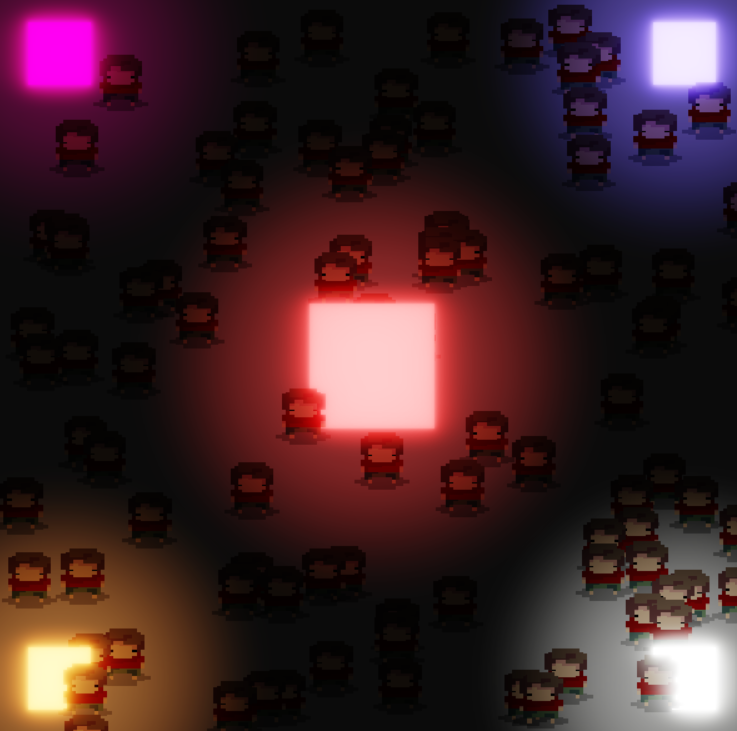
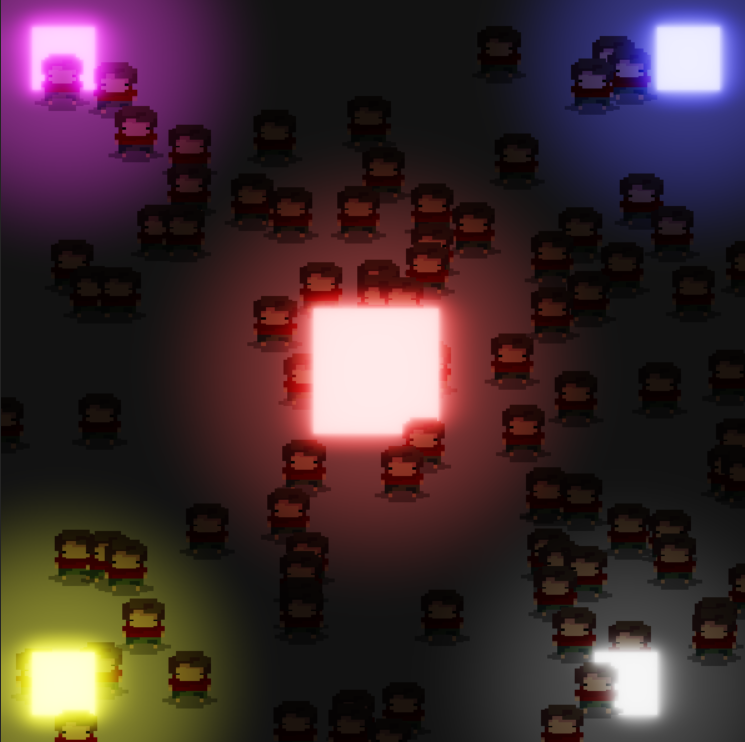
some bloom fixes, universal color palet

diff --git a/src/aurora/urp/draw.ts b/src/aurora/urp/draw.ts
@@ -13,15 +13,15 @@ interface BaseDraw {
   tint?: RGBA;
 }
 interface DrawRect extends BaseDraw {
-  emissive?: boolean;
+  emissive?: number;
 }
 interface DrawCircle extends BaseDraw {
-  emissive?: boolean;
+  emissive?: number;
 }
 interface DrawSprite extends BaseDraw {
   crop: Position2D & Size2D;
   textureToUse: string;
-  emissive?: boolean;
+  emissive?: number;
 }
 interface DrawText {
   position: Position2D;
@@ -29,7 +29,7 @@ interface DrawText {
   font: string;
   fontSize: number;
   fontColor?: RGBA;
-  emissive?: boolean;
+  emissive?: number;
 }
 interface DrawPointLight extends BaseDraw {
   intensity: number;
@@ -46,7 +46,29 @@ export interface BatchAccumulator {
   type: GetBatch["type"];
 }
 export default class Draw {
-  public static rect({ position, size, tint, emissive = false }: DrawRect) {
+  public static hdrBloomTone(
+    color: [number, number, number],
+    emissive: number
+  ): [number, number, number] {
+    const [r, g, b] = color;
+    const rn = r / 255;
+    const gn = g / 255;
+    const bn = b / 255;
+
+    const er = rn * emissive;
+    const eg = gn * emissive;
+    const eb = bn * emissive;
+
+    const alpha = 1 / Math.pow(emissive, 3);
+    const bleed = emissive * alpha;
+
+    const rOut = (er + (1 - rn) * bleed) * 255;
+    const gOut = (eg + (1 - gn) * bleed) * 255;
+    const bOut = (eb + (1 - bn) * bleed) * 255;
+
+    return [rOut, gOut, bOut];
+  }
+  public static rect({ position, size, tint, emissive = 1 }: DrawRect) {
     const pipeline = getDrawPipeline();
     const color: RGBA = tint ? tint : [255, 255, 255, 255];
     const batch = pipeline.getBatch("shape", color[3]);
@@ -67,14 +89,14 @@ export default class Draw {
     batch.addData[batch.count * addStride + 3] = color[1];
     batch.addData[batch.count * addStride + 4] = color[2];
     batch.addData[batch.count * addStride + 5] = color[3];
-    batch.addData[batch.count * addStride + 6] = emissive ? 1 : 0;
+    batch.addData[batch.count * addStride + 6] = emissive;
 
     batch.count++;
-    if (emissive) BloomPipeline.bloomInFrame = true;
+    if (emissive !== 0) BloomPipeline.bloomInFrame = true;
     AuroraDebugInfo.accumulate("drawnQuads", 1);
   }
 
-  public static circle({ position, size, tint, emissive }: DrawCircle) {
+  public static circle({ position, size, tint, emissive = 1 }: DrawCircle) {
     const pipeline = getDrawPipeline();
 
     const color: RGBA = tint ? tint : [255, 255, 255, 255];
@@ -96,7 +118,7 @@ export default class Draw {
     batch.addData[batch.count * addStride + 3] = color[1];
     batch.addData[batch.count * addStride + 4] = color[2];
     batch.addData[batch.count * addStride + 5] = color[3];
-    batch.addData[batch.count * addStride + 6] = emissive ? 1 : 0;
+    batch.addData[batch.count * addStride + 6] = emissive;
     batch.count++;
     AuroraDebugInfo.accumulate("drawnQuads", 1);
   }
@@ -106,7 +128,7 @@ export default class Draw {
     tint,
     crop,
     textureToUse,
-    emissive,
+    emissive = 1,
   }: DrawSprite) {
     const pipeline = getDrawPipeline();
 
@@ -130,7 +152,7 @@ export default class Draw {
     batch.addData[batch.count * addStride + 3] = color[1];
     batch.addData[batch.count * addStride + 4] = color[2];
     batch.addData[batch.count * addStride + 5] = color[3];
-    batch.addData[batch.count * addStride + 6] = emissive ? 1 : 0;
+    batch.addData[batch.count * addStride + 6] = emissive;
 
     batch.count++;
     AuroraDebugInfo.accumulate("drawnQuads", 1);
@@ -141,7 +163,7 @@ export default class Draw {
     fontColor,
     fontSize,
     text,
-    emissive,
+    emissive = 1,
   }: DrawText) {
     const pipeline = getDrawPipeline();
 
@@ -208,7 +230,7 @@ export default class Draw {
       batch.addData[batch.count * addStride + 3] = color[1];
       batch.addData[batch.count * addStride + 4] = color[2];
       batch.addData[batch.count * addStride + 5] = color[3];
-      batch.addData[batch.count * addStride + 6] = emissive ? 1 : 0;
+      batch.addData[batch.count * addStride + 6] = 1;
 
       batch.count++;
       AuroraDebugInfo.accumulate("drawnQuads", 1);

diff --git a/src/main.ts b/src/main.ts
@@ -18,13 +18,14 @@ interface t {
   intence: number;
   pos: [number, number];
   size: [number, number];
+  emis: number;
 }
-function makeLight({ intence, lightcolor, pos, size }: t) {
+function makeLight({ intence, lightcolor, pos, size, emis }: t) {
   Draw.rect({
     position: { x: pos[0], y: pos[1] },
     size: { height: size[0], width: size[1] },
     tint: [lightcolor[0], lightcolor[1], lightcolor[2], 255],
-    emissive: true,
+    emissive: emis,
   });
   Draw.pointLight({
     position: { x: pos[0], y: pos[1] },
@@ -45,7 +46,8 @@ async function create() {
     ],
     fonts: [yaFont],
   });
-  Batcher.setColorCorrection([25, 25, 25]);
+  const l = 50;
+  Batcher.setColorCorrection([l, l, l]);
 }
 const arr = Array(100)
   .fill(0)
@@ -60,7 +62,7 @@ function start(timestamp: number) {
   // Draw.rect({
   //   position: { x: 375, y: 275 },
   //   size: { height: h, width: w },
-  //   tint: [0, 255, 0, 255 / 2],
+  //   tint: [255, 255, 0, 255],
   // });
   // Draw.rect({
   //   position: { x: 425, y: 325 },
@@ -77,59 +79,61 @@ function start(timestamp: number) {
     });
   });
   makeLight({
-    intence: 100,
-    lightcolor: [255, 50, 50],
+    intence: 255,
+    lightcolor: [255, 70, 70],
     pos: [300, 300],
     size: [100, 100],
-  });
-  makeLight({
-    intence: 100,
-    lightcolor: [255, 0, 150],
-    pos: [50, 50],
-    size: [50, 50],
+    emis: 5,
   });
   makeLight({
     intence: 255,
-    lightcolor: [255, 255, 250],
+    lightcolor: [255, 50, 255],
+    pos: [50, 50],
+    size: [50, 50],
+    emis: 5,
+  });
+  makeLight({
+    intence: 255,
+    lightcolor: [255, 255, 255],
     pos: [500, 550],
     size: [50, 50],
+    emis: 4,
   });
   makeLight({
-    intence: 200,
-    lightcolor: [255, 125, 50],
+    intence: 255,
+    lightcolor: [255, 255, 50],
     pos: [50, 550],
     size: [50, 50],
+    emis: 5,
   });
   makeLight({
-    intence: 200,
-    lightcolor: [100, 80, 250],
+    intence: 255,
+    lightcolor: [70, 70, 255],
     pos: [550, 50],
     size: [50, 50],
+    emis: 6,
   });
   // const lightColor = 255;
   // Draw.rect({
   //   position: { x: x - 50, y: 250 },
   //   size: { height: 100, width: 100 },
   //   tint: [lightColor, 100, 0, 255],
-  //   emissive: true,
   // });
   // Draw.rect({
   //   position: { x: x, y: 250 + 150 },
   //   size: { height: 100, width: 100 },
   //   tint: [lightColor, 100, 0, 255],
-  //   emissive: true,
   // });
   // Draw.rect({
   //   position: { x: x + 50, y: 250 - 150 },
   //   size: { height: 100, width: 100 },
   //   tint: [lightColor, 100, 0, 255],
-  //   emissive: true,
   // });
   // Draw.circle({
   //   position: { x: 425, y: 225 },
   //   size: { height: 50, width: 50 },
-  //   tint: [255, 0, 0, 255],
-  //   // emissive: true,
+  //   tint: [255, 70, 70, 255],
+  //   emissive: 5,
   // });
   // Draw.pointLight({
   //   position: { x: x, y: 250 },
@@ -150,7 +154,7 @@ function start(timestamp: number) {
   //   intensity: 255,
   // });
   // Draw.rect({
-  //   position: { x: 400, y: 300 },
+  //   position: { x: 480, y: 270 },
   //   size: { height: h, width: w },
   //   tint: [0, 0, 255, 255 / 2],
   // });
@@ -168,7 +172,6 @@ function start(timestamp: number) {
   //   fontSize: 62,
   //   text: "Scalable big text!",
   //   fontColor: [255, 255, 0, 255],
-  //   emissive: true,
   // });
   // Draw.text({
   //   position: { x: 150, y: 480 },

diff --git a/src/aurora/urp/pipelines/bloomPipe.ts b/src/aurora/urp/pipelines/bloomPipe.ts
@@ -1,4 +1,4 @@
-import { CreateBindGroup, PipelineBind, Position2D } from "../../aurora";
+import { CreateBindGroup, PipelineBind, Position2D, RGB } from "../../aurora";
 import Aurora from "../../core";
 import Batcher from "../batcher/batcher";
 import AuroraDebugInfo from "../debugger/debugInfo";
@@ -25,7 +25,7 @@ type PassOrderList = [
   MipMapLevelToUse
 ];
 enum BloomParamsEnum {
-  toneMapping = 0, // 0 - rainhard, 1-ACES
+  toneMapping = 0, // 0 - rainhard, 1-ACES, 2- Filmic
   threshold = 1,
   thresholdSoftness = 2,
   bloomIntense = 3,
@@ -49,6 +49,8 @@ export default class BloomPipeline {
   private static currentMipLevel = 0;
   public static bloomInFrame: boolean = false;
   public static bloomParams = new Float32Array([1, 1, 0.1, 0.7]); // see enum
+  private static baseThreshold = 1;
+  private static thresholdBoostFactor = 1.4;
   private static bindListOrder: PassOrderList[] = [
     ["x", "bloomThreshold", "bloomXPass", 0],
     ["y", "bloomXPass", "bloomYPass", 0],
@@ -196,6 +198,7 @@ export default class BloomPipeline {
       },
     });
     const bloomLayout = Batcher.getBloomParamUniformLayout;
+
     const treshLayout = Aurora.createPipelineLayout([
       this.bloomThresholdBind[1],
       bloomLayout,
@@ -254,11 +257,17 @@ export default class BloomPipeline {
   }
 
   public static usePipeline(): void {
+    const bloomParamBuffer = Batcher.getBloomParamBuffer;
+    const globalIllumination = this.normalizeColorToLuminance(
+      Batcher.getColorCorrection
+    );
+    const newThreshold =
+      this.baseThreshold + globalIllumination * this.thresholdBoostFactor;
+    // this.setBloomParam("threshold", newThreshold);
+    Aurora.device.queue.writeBuffer(bloomParamBuffer, 0, this.bloomParams, 0);
     if (!this.bloomInFrame) return;
     this.currentMipLevel = 0;
     this.thresholdPass();
-    const bloomParamBuffer = Batcher.getBloomParamBuffer;
-    Aurora.device.queue.writeBuffer(bloomParamBuffer, 0, this.bloomParams, 0);
     this.bindListOrder.forEach((instruction, index) => {
       const groupSize = this.getGroupSize(instruction);
       const passType = instruction[0];
@@ -459,5 +468,15 @@ export default class BloomPipeline {
     for (let i = 11; i <= 13; i++) {
       this.bindList.push(this.getNewUpscaleBinding(this.bindListOrder[i]));
     }
+  }
+  private static normalizeColorToLuminance(rgb: RGB) {
+    // 1. Znormalizuj składowe RGB z zakresu 0-255 do 0-1.0
+    const r_normalized = rgb[0] / 255.0;
+    const g_normalized = rgb[1] / 255.0;
+    const b_normalized = rgb[2] / 255.0;
+    const luminance =
+      0.2126 * r_normalized + 0.7152 * g_normalized + 0.0722 * b_normalized;
+
+    return luminance;
   }
 }

diff --git a/think.md b/think.md
@@ -1,12 +1,12 @@
 ## plan dzialania
 
-- jakis system jednolity kolorow dla wszystkiego
+x jakis system jednolity kolorow dla wszystkiego
 
-- poprawic swiatla bo teraz mocno odcinaja jak masz HDR
+x poprawic swiatla bo teraz mocno odcinaja jak masz HDR
 
-- nie dziala w debugData color Corr
+x nie dziala w debugData color Corr
 
-- bloom powinien miec balans miedzy ogolna jasnoscia sceny a emisyjnoscia obiektow, np slonce w kurwe jasne, zawsze bloomuje, lampka w dzien, nie daje blomu, lampa wieczorem daje
+x bloom powinien miec balans miedzy ogolna jasnoscia sceny a emisyjnoscia obiektow, np slonce w kurwe jasne, zawsze bloomuje, lampka w dzien, nie daje blomu, lampa wieczorem daje
 
 x glowna tekstura musi byc hdr 2. musisz miec system koloru jakis (jako ze floaty to musisz miec minium czarny i max bialy, HSLA?) - to musi byc powiazane z toneMappingiem
 
@@ -22,9 +22,9 @@ x dodane do sceny additive
 
 x toneMapping na cala scene
 
-8. robic const ovverride na ilosc workgroupy (8) by z jednej zmiennej to kontrolowac
+x robic const ovverride na ilosc workgroupy (8) by z jednej zmiennej to kontrolowac
 
-9. dodac opcje zrobienia samego layoutu bindu w aurora core bo teraz uzywam device (this.bloomBindLayout = Aurora.device.createBindGroupLayout)
+x dodac opcje zrobienia samego layoutu bindu w aurora core bo teraz uzywam device (this.bloomBindLayout = Aurora.device.createBindGroupLayout)
 
 ## wlasciwosci bloom
 
@@ -35,17 +35,7 @@ high pass freq
 
 ## co zrobic
 
-[-] dodac jakis uniform z wlasciwosciami
-[-] przebudowac by nie tworzyc bindow co chwile nowych a juz przygotowac jes
-[-]
-[-] ovverride workgrup
-[-] debugInfo color corr
-
-- wykminic system kolorow
 - zbudowac lepszy system pipelinow
-  [-] leiej smooth swiatla
-  [-] czy swiatla powinny tez byc hdr?
-- threshold oswietlenia globalnego
 - zmniejszyc ilosc pipelinow
-  [-] zmienic te rzeczy co uzywaja .device
+
 - poprawic faktyczny shader a nie debug by mial tonemap itp

diff --git a/todo.md b/todo.md
@@ -14,6 +14,11 @@
 - moze by zrobic tylko sprite/circle i oba one moga byc texturowane po prostu
 - jak nie masz zadnego point lightu to nie masz swiatla w ogole
 - zrobic debuuger na process.env by dzialal tree-shaking
+- mniej compute passow na bloomie (polacz downscale z xpassem)
+- dodac wagi do upscale blendowania
+- przebudowac sposob tworzenia pipelinow zamiast klas na jakis system
+- przemyslec jak Draw dostaje dane bo moglby wysylac sygnaly do pipelinow lepiej na bazie swoich zmiennych
+- parametry renderera trzeba stworzyc, bo np tonemapping musi byc uzywany, a nie dziala jak nie masz pipelinu bloom bo tam go writuje, w nich beda wszystkie bloomu rzeczy plus exposure, saturation, itp, treshold oswietlenia globalnego
 
 # Done
 

diff --git a/optimaWeek.md b/optimaWeek.md
@@ -1,0 +1,7 @@
+# Weekend Optymalizacji 1
+
+- mniej compute passow na bloomie (polacz downscale z xpassem)
+- dodac wagi do upscale blendowania
+- przebudowac sposob tworzenia pipelinow zamiast klas na jakis system
+- przemyslec jak Draw dostaje dane bo moglby wysylac sygnaly do pipelinow lepiej na bazie swoich zmiennych
+- parametry renderera trzeba stworzyc, bo np tonemapping musi byc uzywany, a nie dziala jak nie masz pipelinu bloom bo tam go writuje, w nich beda wszystkie bloomu rzeczy plus exposure, saturation, itp, treshold oswietlenia globalnego
